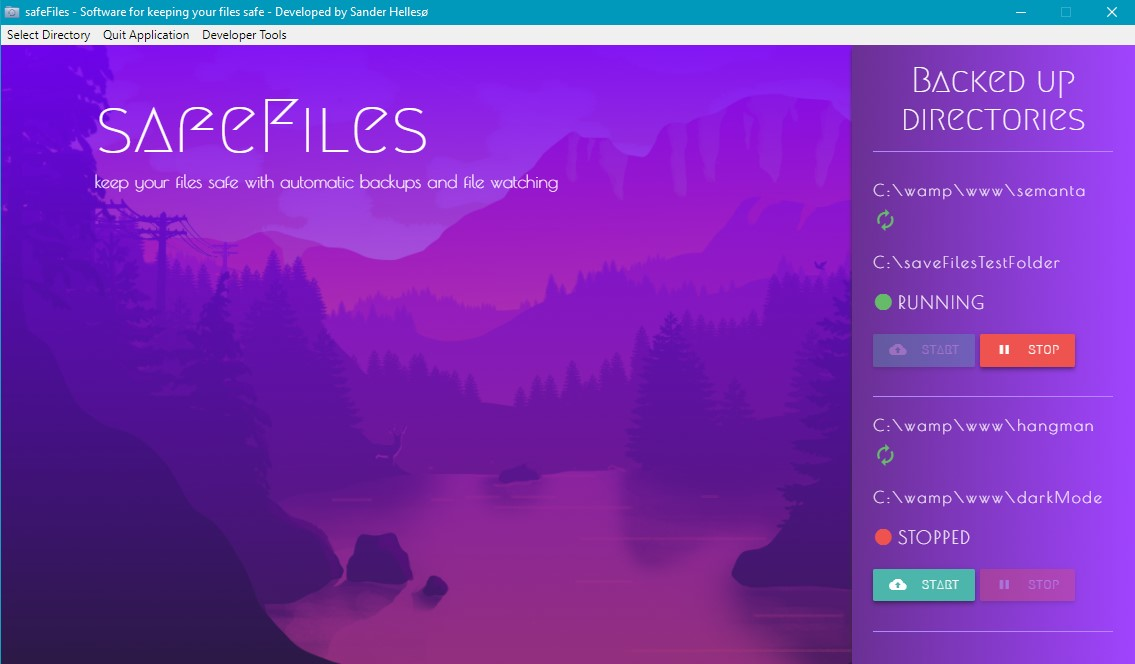
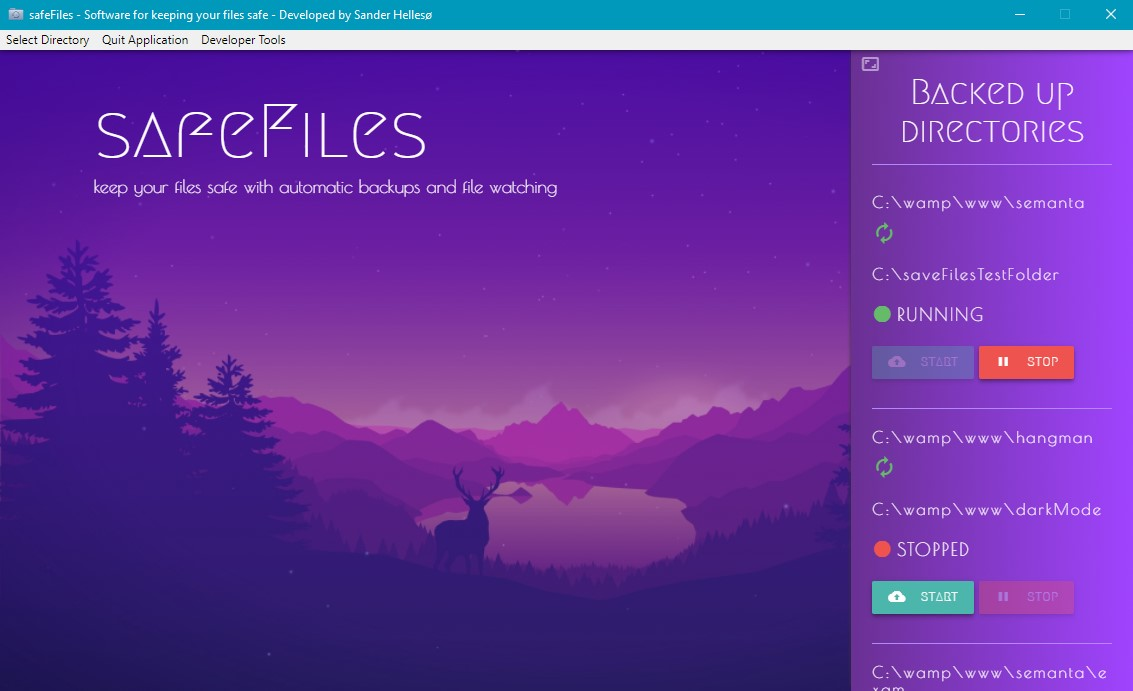
updated bgs, hide scrollbar and fixed typography aswell as added fullscreen mode

diff --git a/css/main.css b/css/main.css
@@ -1,3 +1,32 @@
+::-webkit-scrollbar {
+    width: 0px;
+}
+ 
+::-webkit-scrollbar-track {
+    -webkit-box-shadow: inset 0 0 6px rgba(0,0,0,0.3); 
+    border-radius: 0px;
+}
+ 
+::-webkit-scrollbar-thumb {
+    border-radius: 0px;
+    -webkit-box-shadow: inset 0 0 6px rgba(0,0,0,0.5); 
+}
+
+body:before {
+          content: "";
+          position: fixed;
+          top: -10px;
+          left: 0;
+          width: 100%;
+          height: 10px;
+
+          -webkit-box-shadow: 0px 0px 10px rgba(0,0,0,.8);
+              -moz-box-shadow: 0px 0px 10px rgba(0,0,0,.8);
+                         box-shadow: 0px 0px 10px rgba(0,0,0,.8);
+
+          z-index: 100;
+}
+
 body {
 	overflow: hidden;
 	font-family: 'Megrim', cursive;
@@ -6,9 +35,9 @@ body {
 /********* MAIN CONTAINER ***********/
 #mainCont {
 	background: linear-gradient(
-    rgba(118, 0, 255, 0.9), 
+    rgba(118, 0, 255, 0.5), 
     rgba(118, 0, 255, 0.1)),
-    url("../img/main.png");
+    url("../img/bg.jpg");
 	background-size: cover;
 	background-repeat: no-repeat;
 	background-attachment: fixed;
@@ -36,14 +65,31 @@ body {
 #sideCont {
 	box-shadow: -5px 0 5px -5px #333;
 	min-height: 100vh;
+	max-height: 100vh;
 	background: #6a3093;  /* fallback for old browsers */
 	background: -webkit-linear-gradient(to left, #a044ff, #6a3093);  /* Chrome 10-25, Safari 5.1-6 */
 	background: linear-gradient(to left, #a044ff, #6a3093); /* W3C, IE 10+/ Edge, Firefox 16+, Chrome 26+, Opera 12+, Safari 7+ */
 	color: white;
 	font-weight: 100;
+	overflow-y: auto;
+}
+
+#fullScreen {
+	margin: 0;
+	margin-top: 5px;
+	font-size: 18px;
+	float: left;
+	opacity: 0.5;
+	transition: all 0.3s;
+}
+
+#fullScreen:hover {
+	opacity: 1;
+	cursor: pointer;
 }
 
 #sideHeading {
+	margin-top: 0;
 	font-size: 35px;
 	padding-bottom: 15px;
 	border-bottom: 0.5px solid #b388ff;

diff --git a/mainWindow.html b/mainWindow.html
@@ -14,6 +14,7 @@
 			<p>keep your files safe with automatic backups and file watching</p>
 		</div>
 		<div id="sideCont" class="col s3">
+			<i id="fullScreen" class="material-icons">aspect_ratio</i>
 			<div class="col s12">
 				<h5 id="sideHeading" class="center-align">Backed up directories</h5>
 			</div>
@@ -33,6 +34,14 @@
 					<p class="status"><i class="material-icons stopped">brightness_1</i>Stopped</p>
 					<a class="waves-effect waves-light btn btn-small startBackUpBtn z-depth-2"><i class="material-icons left">backup</i>start</a>
 					<a class="waves-effect waves-light btn btn-small stopBackUpBtn disabledBtn z-depth-2"><i class="material-icons left">pause</i>stop</a>
+				</div>
+				<div class="backedUpDir">
+					<h5>C:\wamp\www\semanta\exam</h5>
+					<i class="material-icons">autorenew</i>
+					<h5>C:\wamp\www\examBackup</h5>
+					<p class="status"><i class="material-icons running">brightness_1</i>Running</p>
+					<a class="waves-effect waves-light btn btn-small startBackUpBtn disabledBtn z-depth-2"><i class="material-icons left">backup</i>start</a>
+					<a class="waves-effect waves-light btn btn-small stopBackUpBtn z-depth-2"><i class="material-icons left">pause</i>stop</a>
 				</div>
 			</div>
 			</div>

diff --git a/js/mainWindow.js b/js/mainWindow.js
@@ -11,4 +11,27 @@ function start() {
 	ipcRenderer.on("directoryTo:path", function(e, path){
 		
 	});
+
+	const fullScreen = document.querySelector("#fullScreen");
+	fullScreen.addEventListener("click", fullScreenMode);
+}
+
+let isFullScreen = false;
+function fullScreenMode() {
+	const sideCont =  document.querySelector("#sideCont");
+	const mainCont =  document.querySelector("#mainCont");
+
+	if (isFullScreen === false) {
+		sideCont.className = "col s12";
+		mainCont.style.display = "none";
+		isFullScreen = true;
+		return;
+	}
+
+	else {
+		sideCont.className = "col s3";
+		mainCont.style.display = "block";
+		isFullScreen = false;
+		return;
+	}
 }
